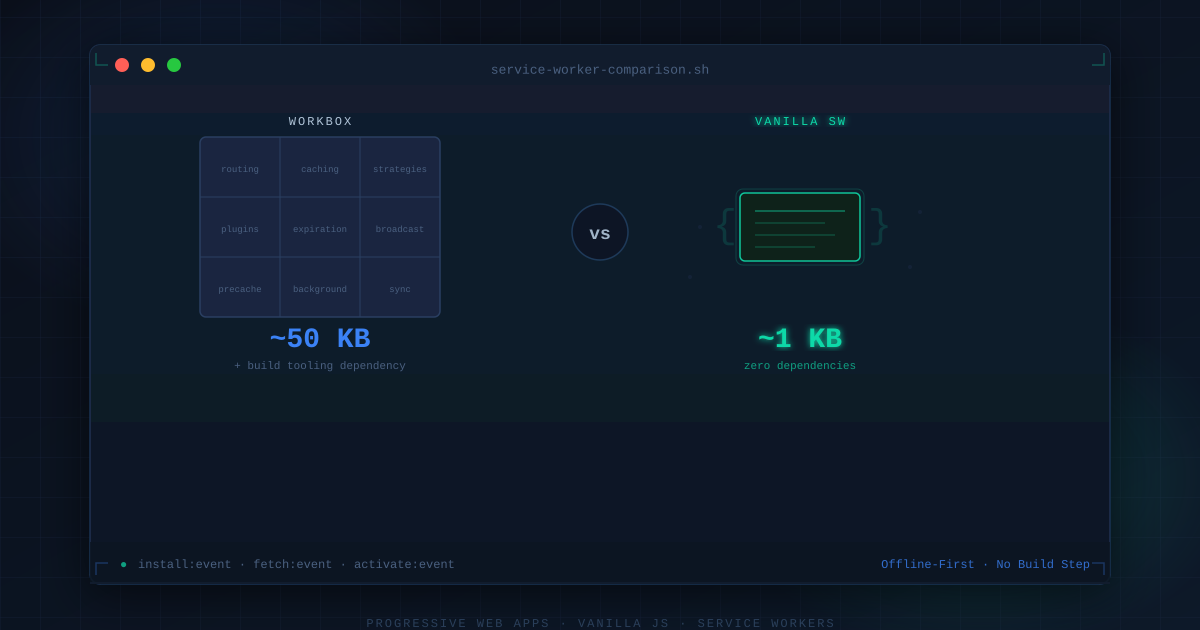
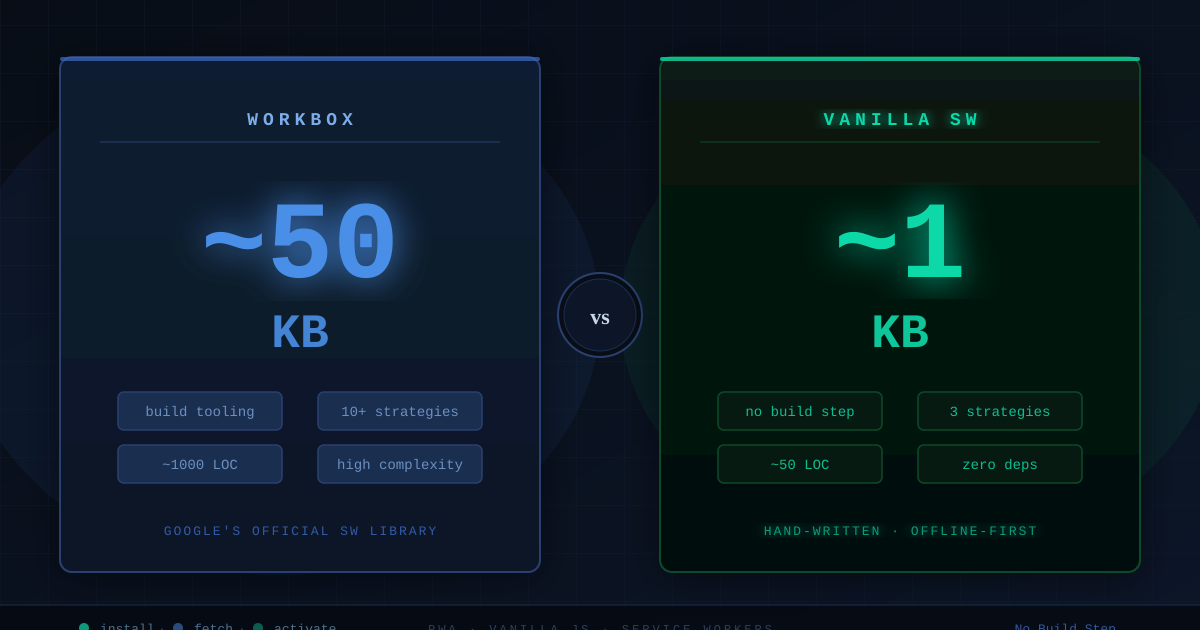
refactor: mobile-friendly hero SVG, muted footnote styling

diff --git a/assets/css/index.css b/assets/css/index.css
@@ -351,6 +351,24 @@ article p:has(img) + p em:only-child {
   &:hover { color: var(--accent); background: var(--selection); }
 }
 
+/* Footnotes */
+.footnotes {
+  font-size: 0.875rem;
+  color: var(--text-secondary);
+  border-top: 1px solid var(--border);
+  margin-top: 2rem;
+  padding-top: 1rem;
+}
+.footnote-ref {
+  font-size: 0.75rem;
+  color: var(--text-secondary);
+  text-decoration: none;
+}
+.footnote-backref {
+  text-decoration: none;
+  color: var(--text-secondary);
+}
+
 /* Post list */
 .postlist {
   list-style: none;
